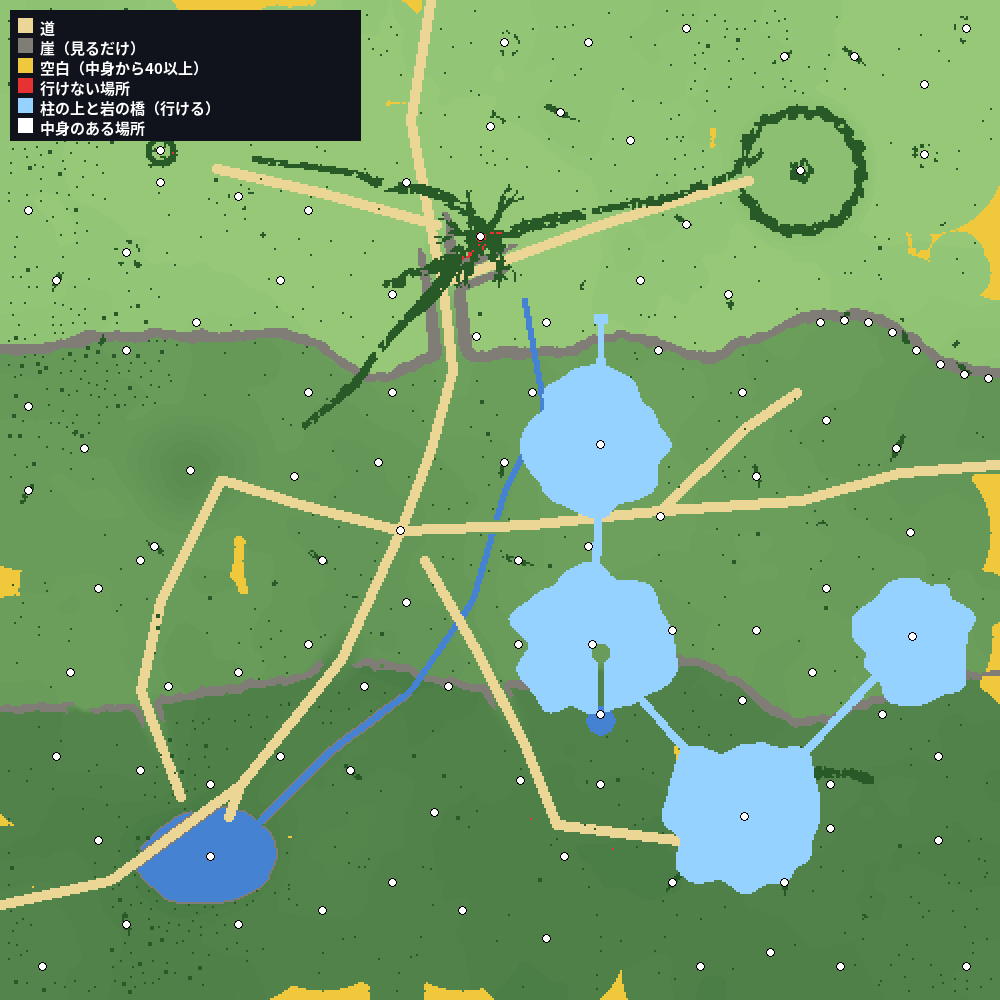
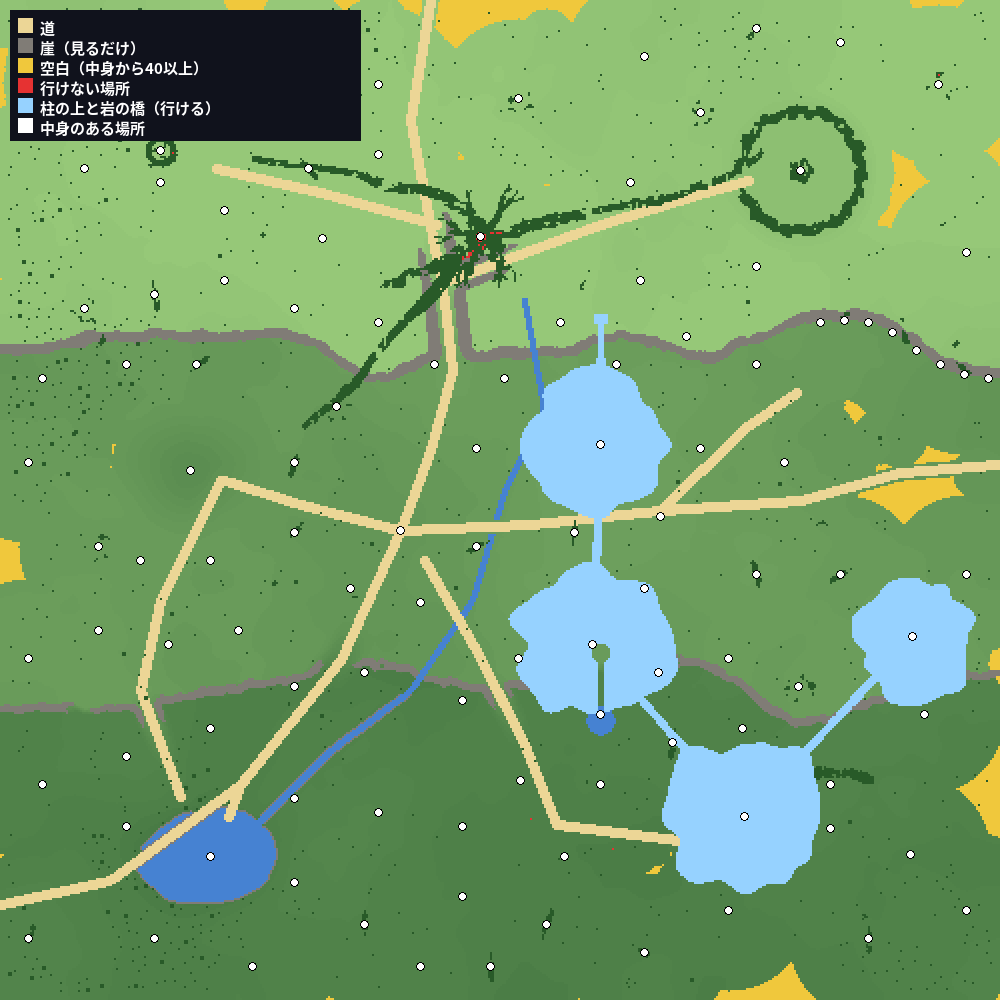
Proposals: field500 - sakura boss arena: patterned raised floor, tamagaki fence, myojin torii, ishidoro, pavilions, shimenawa goshinboku

diff --git a/docs/proposals/world-prototype/field500/index.html b/docs/proposals/world-prototype/field500/index.html
@@ -59,6 +59,21 @@ small.cap { color: var(--muted); font-size: .8rem }
       <li>（今回追加）崖面の仕上げは苔・光る地衣類・つる・垂れ根。滝の下は上より荒らす（砂利の縁、苔石）。</li>
       <li>（今回追加）森の縁は段々に：草地 → 茂み → 若木 → 大木。木の下に落ち葉。</li>
     </ol>
+    <h2 style="margin-top:12px">ボス周りで取った決まり</h2>
+    <ol>
+      <li>闘技場は広く平らで、中に引っかかる物を置かない。境目（段差・柵）がひと目で分かる。入口は1つ。</li>
+      <li>目印（御神木の大桜）は闘技場の外、入口の正面奥に置き、入った瞬間に見える。</li>
+      <li>鳥居は明神鳥居の形：石の台、朱の柱、柱の外まで出る貫、額、反り上がった笠木。石灯籠は台・竿・火袋・笠・宝珠。</li>
+      <li>和の色は朱・黒い瓦・白い石・桜色の4つにしぼり、床に模様（同心円と放射線）を入れる。</li>
+    </ol>
+    <div class="src">
+      <a href="https://bugnet.io/blog/how-to-design-a-boss-arena" target="_blank" rel="noopener">ボス闘技場の作り方</a>
+      <a href="https://buildingguide.app/tutorials/japanese-gate" target="_blank" rel="noopener">鳥居（笠木と貫）</a>
+      <a href="https://foreveryard.com/how-to-make-torii-gate-in-minecraft/" target="_blank" rel="noopener">鳥居の比率</a>
+      <a href="https://en.wikipedia.org/wiki/Shimenawa" target="_blank" rel="noopener">注連縄</a>
+      <a href="https://www.planetminecraft.com/projects/?keywords=sakura+arena" target="_blank" rel="noopener">桜の闘技場の作品（Planet Minecraft）</a>
+    </div>
+    <h2 style="margin-top:12px">地形の出典</h2>
     <div class="src">
       <a href="https://polystruct.github.io/creative/worldpainter/custom.html" target="_blank" rel="noopener">WorldPainter カスタム地形の例（配合）</a>
       <a href="https://www.worldpainter.net/trac/wiki/Manual/Paints/Terrains" target="_blank" rel="noopener">WorldPainter 公式マニュアル（地形）</a>
@@ -75,6 +90,8 @@ small.cap { color: var(--muted); font-size: .8rem }
 </div>
 <script>
 const SHOTS = [
+  { id: "arena", tab: "ボス闘技場（入口側から）", img: "arena-nw.png", title: "桜のボス闘技場：参道から見たところ", text: "橋を渡ると、鳥居のトンネルと石灯籠の参道。大鳥居（明神鳥居：石の台、朱の柱、柱の外まで出た貫、額、反り上がった黒い笠木）をくぐると、一段高い円い石の床。床は5ブロックごとの同心円と8本の放射線、中央に金の印。まわりは朱の玉垣（低い柵）で、入口だけ開いている。闘技場の中には木も障害物も置かず、どこで戦っても見通せる。外側に砂利の帯と石灯籠16基、四方に瓦屋根の小さな社4棟。いちばん奥に注連縄を巻いたしだれ桜の御神木。", lv: "ボス" },
+  { id: "arena2", tab: "ボス闘技場（反対側から）", img: "arena-se.png", title: "反対側から：御神木が手前", text: "いつもの角度だと御神木が手前に来て闘技場を隠すので、入口側からの絵も作った。", lv: "ボス" },
   { id: "scarp", tab: "崖（今回）", img: "f5-scarp.png", title: "崖：ギザギザの線、崩れた石、光る地衣類", text: "崖の線を細かくジグザグにし、まっすぐな段が7ブロック以上続かないようにした。段の高さも1〜3ブロックでばらばら。崖の足元には崩れ落ちた石（砂利・丸石・苔石の小岩）が溜まり、崖面には光る地衣類・垂れ根・つる。", lv: "今回" },
   { id: "scarp1", tab: "崖（前回）", img: "v2-scarp.png", title: "崖（前回）", text: "前回。縦のすじと明暗はあるが、崖の線がまっすぐで階段が規則的。", lv: "前回" },
   { id: "gap", tab: "中段（今回）", img: "f5-gap.png", title: "中段：森の縁と足元", text: "森と草地の境目に茂みと若木を置き、いきなり大木が立たないようにした。木の下には落ち葉。崖の線も入り組んだ。", lv: "今回" },
@@ -112,5 +129,5 @@ for (const s of SHOTS) {
 }
 let start = (location.hash || "").slice(1);
 if (!start) { try { start = localStorage.getItem("f5tab") || "" } catch (e) {} }
-show(start || "scarp");
+show(start || "arena");
 </script>

diff --git a/scripts/world_prototype/field500.py b/scripts/world_prototype/field500.py
@@ -720,23 +720,62 @@ def sakura_tree(x, z, g, size=1.0):
 
 
 def torii(cx, cz, y, ux, uz, half=3, h=6):
-    """A vermilion torii across a path heading (ux, uz): two posts, the nuki tie beam, the dark kasagi with upturned ends."""
+    """Myojin torii across a path heading (ux, uz): stone kamebara bases, vermilion hashira, the nuki tie beam running
+    past the posts, a dark gakuzuka plaque, the red shimaki and a dark kasagi whose ends turn up."""
     px, pz = -uz, ux
+    P = lambda s2: (int(round(cx + px * s2)), int(round(cz + pz * s2)))
     for s2 in (-half, half):
-        bx, bz = int(round(cx + px * s2)), int(round(cz + pz * s2))
-        put(bx, y, bz, "stone_bricks")
-        for yy in range(y + 1, y + h + 1): put(bx, yy, bz, "red_concrete", shape="post")
-    for s2 in range(-half - 2, half + 3):
-        bx, bz = int(round(cx + px * s2)), int(round(cz + pz * s2))
-        if abs(s2) <= half: put(bx, y + h - 1, bz, "red_concrete", shape="slab_t")
-        put(bx, y + h + 1, bz, "blackstone" if abs(s2) <= half + 1 else "blackstone", shape="full" if abs(s2) < half + 2 else "slab")
-        if abs(s2) <= half + 1: put(bx, y + h, bz, "red_concrete")
-    put(int(round(cx)), y + h, int(round(cz)), "gold_block")
+        bx, bz = P(s2)
+        put(bx, y + 1, bz, "polished_andesite")
+        for yy in range(y + 2, y + h + 1): put(bx, yy, bz, "red_concrete")
+    for s2 in range(-half - 1, half + 2):                            # nuki, one block past each post
+        bx, bz = P(s2)
+        put(bx, y + h - 2, bz, "red_concrete", shape="slab_t")
+    bx, bz = P(0)
+    put(bx, y + h - 1, bz, "black_concrete"); put(bx, y + h - 1, bz, "gold_block", shape="lantern")    # the plaque
+    for s2 in range(-half - 1, half + 2):                            # shimaki
+        bx, bz = P(s2); put(bx, y + h, bz, "red_concrete")
+    for s2 in range(-half - 2, half + 3):                            # kasagi
+        bx, bz = P(s2); put(bx, y + h + 1, bz, "deepslate_tiles")
+    for s2 in (-half - 3, half + 3):                                 # the upturned ends
+        bx, bz = P(s2); put(bx, y + h + 1, bz, "deepslate_tiles", shape="slab_t"); put(bx, y + h + 2, bz, "deepslate_tiles", shape="slab")
 
 
 def stone_lantern(x, z, y):
-    put(x, y + 1, z, "stone_bricks", shape="wall"); put(x, y + 2, z, "stone_bricks", shape="slab")
-    put(x, y + 2, z, "lantern", shape="lantern"); put(x, y + 3, z, "stone_bricks", shape="slab")
+    """Ishidoro: a pedestal, a slim post, the fire box, a wide roof, a jewel on top."""
+    put(x, y + 1, z, "polished_andesite")
+    put(x, y + 2, z, "stone_bricks", shape="wall")
+    put(x, y + 3, z, "polished_andesite", shape="slab")
+    put(x, y + 3, z, "lantern", shape="lantern")
+    put(x, y + 4, z, "deepslate_tiles")
+    for dx, dz in ((1, 0), (-1, 0), (0, 1), (0, -1)):
+        if (x + dx, y + 4, z + dz) not in w.b: put(x + dx, y + 4, z + dz, "deepslate_tiles", shape="slab")
+    put(x, y + 5, z, "polished_andesite", shape="post")
+
+
+def pavilion(cx, cz, y, r=3, roof="deepslate_tiles"):
+    """A small open shrine pavilion: raised stone floor, vermilion posts, a hipped tile roof with upturned eaves, a gold finial."""
+    for dx in range(-r, r + 1):
+        for dz in range(-r, r + 1):
+            put(cx + dx, y + 1, cz + dz, "polished_andesite" if max(abs(dx), abs(dz)) == r else "spruce_planks", shape="full")
+    for dx, dz in ((-r + 1, -r + 1), (r - 1, -r + 1), (-r + 1, r - 1), (r - 1, r - 1)):
+        for yy in range(y + 2, y + 6): put(cx + dx, yy, cz + dz, "red_concrete", shape="post")
+    for layer in range(3):                                           # roof: three shrinking tiers, the eaves one block past the posts
+        rr = r + 1 - layer
+        for dx in range(-rr, rr + 1):
+            for dz in range(-rr, rr + 1):
+                edge = max(abs(dx), abs(dz)) == rr
+                if edge or layer == 2:
+                    corner = abs(dx) == rr and abs(dz) == rr
+                    put(cx + dx, y + 6 + layer + (1 if corner and layer == 0 else 0), cz + dz, roof, shape="slab" if (edge and layer < 2) else "full")
+        for dx in range(-rr + 1, rr):
+            for dz in range(-rr + 1, rr):
+                put(cx + dx, y + 6 + layer, cz + dz, "dark_oak_planks" if layer < 2 else roof)
+    put(cx, y + 9, cz, "gold_block", shape="post")
+    put(cx, y + 5, cz, "lantern", shape="lantern")
+    put(cx, y + 2, cz, "barrel_top", "barrel_side")                  # offering box
+    for dx in range(-r, r + 1):
+        for dz in range(-r, r + 1): UPPER[cz + dz, cx + dx] = y + 1
 
 
 PLANTED = []
@@ -987,49 +1026,79 @@ for (px, pz, ty, rb, rt, sd), spawns, herbs, ore in TOPS:
 
 
 # ---------------- world boss: the sakura on the highest pillar ----------------
+# arena rules (boss-arena design + Japanese arena references): one open, readable circle with nothing inside to snag on;
+# the boundary is obvious (raised stone floor, red tamagaki fence); one entrance under a great torii; the landmark
+# (the sacred sakura with its shimenawa) stands behind, outside the fight; shrine pavilions and lanterns sit outside the fence.
 SX_, SZ_, SY_, _, SR_, _ = PILLARS[SAKURA]
 BOSS = (SX_, SZ_)
 AR = int(SR_ * .45)
-for dx in range(-AR - 2, AR + 3):                                   # arena floor: petals on moss, a stone ring at the edge
-    for dz in range(-AR - 2, AR + 3):
+ux2, uz2 = D2                                                       # the direction the visitor arrives from
+ent_a = math.atan2(-uz2, -ux2)
+FY = SY_ + 1                                                        # arena floor is one step up
+for dx in range(-AR - 4, AR + 5):
+    for dz in range(-AR - 4, AR + 5):
         d = math.hypot(dx, dz)
         x, z = SX_ + dx, SZ_ + dz
-        if UPPER[z, x] != SY_: continue
-        for y in range(SY_ + 1, SY_ + 4):
-            if w.b.get((x, y, z), ("", "", ""))[0] in ("plant", "carpet"): w.b.pop((x, y, z), None)
-        if d < AR:
-            put(x, SY_, z, "moss_block" if noise3(x, 0, z, 171, 3) > .55 else "grass_block_top", "grass_block_side")
-            if R.random() < .55: put(x, SY_ + 1, z, "pink_petals", shape="carpet")
-        elif d < AR + 1.5:
-            put(x, SY_, z, R.choice(["stone_bricks", "mossy_stone_bricks", "stone_bricks"]))
-for k2 in range(12):                                                # stone lanterns around the ring
-    a = k2 / 12 * math.tau
-    x, z = int(round(SX_ + math.cos(a) * (AR + 3))), int(round(SZ_ + math.sin(a) * (AR + 3)))
-    if UPPER[z, x] != SY_: continue
-    put(x, SY_ + 1, z, "stone_bricks", shape="wall"); put(x, SY_ + 2, z, "stone_bricks", shape="slab")
-    put(x, SY_ + 2, z, "lantern", shape="lantern"); put(x, SY_ + 3, z, "stone_bricks", shape="slab")
-# the walk from the last bridge to the arena: a tunnel of torii lined with stone lanterns
-ux2, uz2 = D2
+        if UPPER[z, x] != SY_ or d > AR + 3: continue
+        for y in range(SY_ + 1, SY_ + 12):
+            v = w.b.get((x, y, z), ("", "", ""))
+            if v[1] in ("cherry_log", "cherry_log_top", "cherry_leaves", "pink_petals", "pink_wool") or v[0] in ("plant", "carpet"): w.b.pop((x, y, z), None)
+        if d <= AR:
+            ring = abs(d - round(d / 5) * 5) < .5 and d > 2                  # concentric rings every 5
+            ang = math.atan2(dz, dx)
+            spoke = min(abs(((ang * 8 / math.tau) % 1) - .5), .5) > .44 and d > 4  # eight radial lines
+            if d < 2.6: mat = "gold_block" if d < 1.2 else "polished_diorite"   # the seal at the centre
+            elif ring: mat = "polished_andesite"
+            elif spoke: mat = "red_nether_bricks"
+            else: mat = "stone_bricks" if _h(x, 0, z, 61) > .18 else ("mossy_stone_bricks" if _h(x, 1, z, 62) > .5 else "cracked_stone_bricks")
+            put(x, FY, z, mat); put(x, SY_, z, "stone_bricks"); UPPER[z, x] = FY
+            if _h(x, 2, z, 63) < .1: put(x, FY + 1, z, "pink_petals", shape="carpet")   # a few petals blown in
+        elif d <= AR + 1.2:
+            put(x, FY, z, "polished_andesite", shape="slab"); UPPER[z, x] = FY      # a half-step lip all round
+        elif d <= AR + 3:
+            put(x, SY_, z, "gravel" if _h(x, 3, z, 64) < .7 else "stone_bricks")    # raked gravel band
+for k2 in range(int(math.tau * (AR + 2))):                          # tamagaki: a low red fence, open at the entrance
+    a = k2 / (AR + 2)
+    if abs(math.atan2(math.sin(a - ent_a), math.cos(a - ent_a))) < .32: continue
+    x, z = int(round(SX_ + math.cos(a) * (AR + 2))), int(round(SZ_ + math.sin(a) * (AR + 2)))
+    put(x, SY_ + 1, z, "red_concrete", shape="fence"); put(x, SY_ + 2, z, "red_concrete", shape="slab")
+gx0, gz0 = SX_ + math.cos(ent_a) * (AR + 2), SZ_ + math.sin(ent_a) * (AR + 2)
+torii(gx0, gz0, SY_, -math.cos(ent_a), -math.sin(ent_a), half=4, h=9)   # the great torii at the entrance
+for k2 in range(16):                                                # lanterns on the gravel band
+    a = ent_a + (k2 + .5) / 16 * math.tau
+    if abs(math.atan2(math.sin(a - ent_a), math.cos(a - ent_a))) < .4: continue
+    stone_lantern(int(round(SX_ + math.cos(a) * (AR + 5))), int(round(SZ_ + math.sin(a) * (AR + 5))), SY_)
+for off in (.85, -.85, 2.3, -2.3):                                   # four pavilions outside the fence
+    a = ent_a + off
+    px2, pz2 = int(round(SX_ + math.cos(a) * (AR + 11))), int(round(SZ_ + math.sin(a) * (AR + 11)))
+    if UPPER[pz2, px2] == SY_: pavilion(px2, pz2, SY_)
+# the walk from the last bridge to the arena: a tunnel of torii lined with stone lanterns, a stone path
 startx, startz = BR2[-1][0], BR2[-1][1]
-for k2 in range(1, 9):
-    cx, cz = startx + ux2 * k2 * 5, startz + uz2 * k2 * 5
-    if math.hypot(cx - SX_, cz - SZ_) < AR + 2: break
-    torii(cx, cz, SY_, ux2, uz2, half=2, h=5)
-    for s2 in (-4, 4):
-        stone_lantern(int(round(cx - uz2 * s2)), int(round(cz + ux2 * s2)), SY_)
-for k2 in range(0, 30):
+for k2 in range(0, 40):
     for s2 in (-1, 0, 1):
         x, z = int(round(startx + ux2 * k2 - uz2 * s2)), int(round(startz + uz2 * k2 + ux2 * s2))
-        if UPPER[z, x] == SY_ and math.hypot(x - SX_, z - SZ_) > AR: put(x, SY_, z, "stone_bricks" if (k2 + s2) % 3 else "mossy_stone_bricks")
-# the great sakura at the back of the arena
-GX_, GZ_ = SX_, SZ_ - AR - 6
-gtop = SY_ + 22
-sakura_tree(GX_, GZ_ - 4, SY_, size=2.6)                                 # the great weeping sakura
-for k2 in range(0):                                                  # (ring disabled: the pillar's own sakura frame the arena)
-    a = k2 / 10 * math.tau + .2
-    x, z = int(round(SX_ + math.cos(a) * (AR + 9))), int(round(SZ_ + math.sin(a) * (AR + 9)))
-    if UPPER[z, x] == SY_ and (x, SY_ + 1, z) not in w.b and math.hypot(x - GX_, z - GZ_) > 14: sakura_tree(x, z, SY_, size=1.4)
-put(SX_, SY_ + 1, SZ_, "pink_wool", shape="boss")                    # the sakura boss (stand-in)
+        if UPPER[z, x] == SY_ and math.hypot(x - SX_, z - SZ_) > AR + 1.5:
+            put(x, SY_, z, "polished_andesite" if s2 == 0 else "stone_bricks")
+            for y in range(SY_ + 1, SY_ + 10):
+                if w.b.get((x, y, z), ("", "", ""))[1] in ("cherry_log", "cherry_leaves"): w.b.pop((x, y, z), None)
+for k2 in range(1, 9):
+    cx, cz = startx + ux2 * k2 * 5, startz + uz2 * k2 * 5
+    if math.hypot(cx - SX_, cz - SZ_) < AR + 6: break
+    torii(cx, cz, SY_ - 1, ux2, uz2, half=2, h=6)
+    for s2 in (-4, 4):
+        stone_lantern(int(round(cx - uz2 * s2)), int(round(cz + ux2 * s2)), SY_)
+# the sacred sakura (goshinboku) behind the arena, opposite the entrance, wrapped in a shimenawa
+back = ent_a + math.pi
+GX_, GZ_ = int(round(SX_ + math.cos(back) * (AR + 12))), int(round(SZ_ + math.sin(back) * (AR + 12)))
+sakura_tree(GX_, GZ_, SY_, size=3.0)
+for k2 in range(36):
+    a = k2 / 36 * math.tau
+    x, z = int(round(GX_ + math.cos(a) * 4.6)), int(round(GZ_ + math.sin(a) * 4.6))
+    put(x, SY_ + 4, z, "hay_block_top", "hay_block_side", shape="slab_t")
+    if k2 % 4 == 0:
+        put(x, SY_ + 3, z, "white_wool", shape="shut_s"); put(x, SY_ + 2, z, "white_wool", shape="shut_s")
+stone_lantern(GX_ - 6, GZ_ + 6, SY_); stone_lantern(GX_ + 6, GZ_ + 6, SY_)
+put(SX_, FY + 1, SZ_, "pink_wool", shape="boss")                    # the sakura boss (stand-in)
 CONTENT.append((SX_, SZ_, "boss"))
 
 # great stone arches over the road where it enters and leaves the zone: scenery gates (rounded rock, nothing to stand on)
